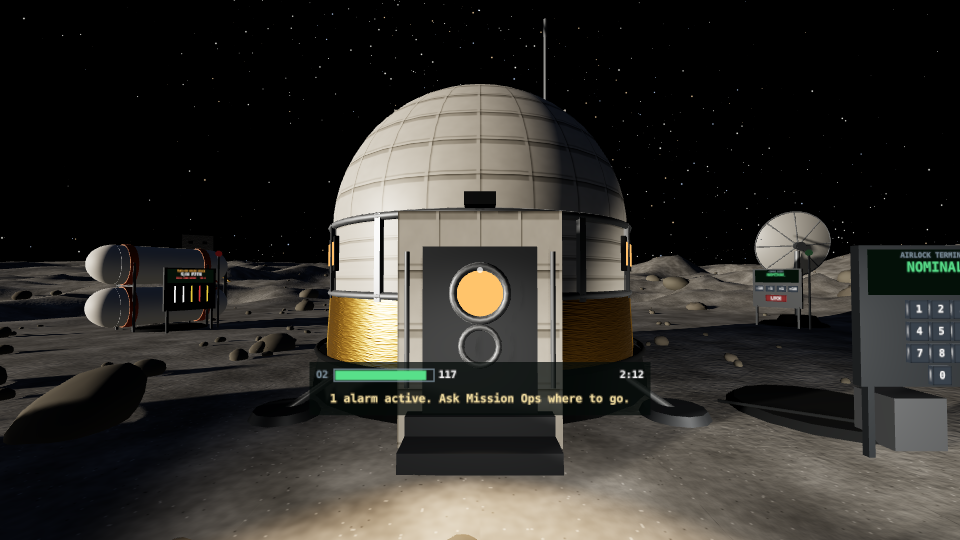
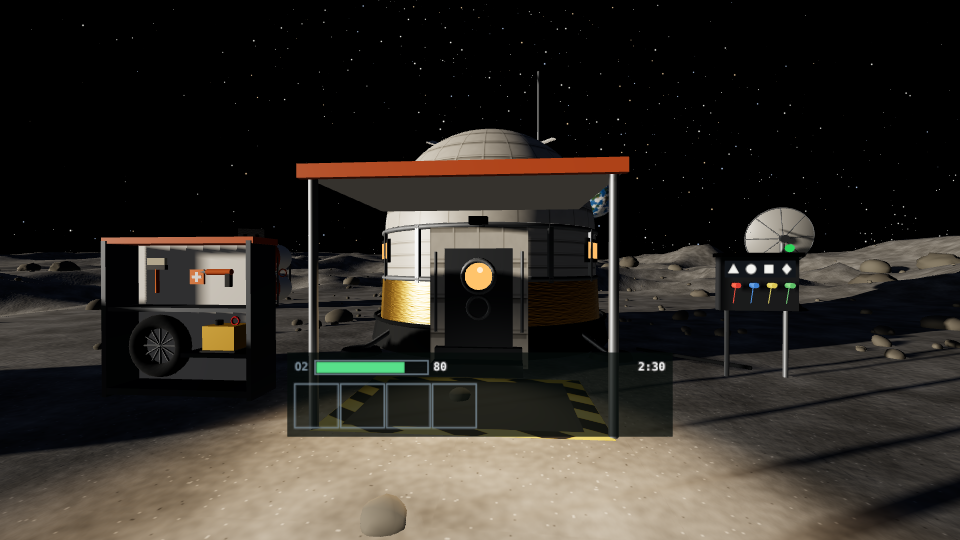
Polish from playing it in a browser, and refreshed docs
Hang the tools side-on in the locker and move it clear of the canopy
post, enlarge the HUD, tidy the power screen, take state and position
as messages arrive rather than once per frame, stop drawing invisible
hit boxes, let two leaks stack, and rewrite the smoke test to play the
whole demo mission through the mouse controls.

Claude-Session: https://claude.ai/code/session_014ejXsXkhudQzp9ZZL5innW

diff --git a/client/astronaut.js b/client/astronaut.js
@@ -57,12 +57,12 @@ addEventListener('resize', () => {
 
 // ---------- heads-up display (a strip locked to the bottom of your view) ----------
 const hudCanvas = document.createElement('canvas');
-hudCanvas.width = 1024; hudCanvas.height = 160;
+hudCanvas.width = 1024; hudCanvas.height = 224;
 const hud = hudCanvas.getContext('2d');
 const hudTex = new THREE.CanvasTexture(hudCanvas);
 hudTex.colorSpace = THREE.SRGBColorSpace;
-const hudMesh = new THREE.Mesh(new THREE.PlaneGeometry(1.15, 0.18), new THREE.MeshBasicMaterial({ map: hudTex, transparent: true, depthTest: false, toneMapped: false }));
-hudMesh.position.set(0, -0.4, -1.3);
+const hudMesh = new THREE.Mesh(new THREE.PlaneGeometry(1.3, 0.284), new THREE.MeshBasicMaterial({ map: hudTex, transparent: true, depthTest: false, toneMapped: false }));
+hudMesh.position.set(0, -0.42, -1.3);
 hudMesh.renderOrder = 10;
 camera.add(hudMesh);
 let hudKey = '';
@@ -76,8 +76,7 @@ function drawHud(now) {
   else if (s.phase === 'lobby') line = (iAmReady() ? 'You are GO. ' : (mode !== 'vr' ? 'Click' : usingHands() ? 'Point and pinch' : 'Point and pull the RIGHT TRIGGER') + ' on the READY board when you are set. ')
     + 'Radio check: ' + (mode !== 'vr' ? 'hold T' : usingHands() ? 'left hand to helmet' : 'hold LEFT TRIGGER') + ' and say hello.';
   else if (s.phase === 'results') line = (s.result.won ? 'MISSION COMPLETE' : 'MISSION FAILED') + `   Score ${s.score}.   ${s.result.reason}`;
-  else if (!line && now - runStart < 12) line = mode !== 'vr' ? 'T talk.  Click to take a tool or use it.  C crouch.  F patch suit.  G generator.'
-    : usingHands() ? 'Left hand to helmet = talk.  Pinch to grab.  Pinch the ground = teleport.' : 'LEFT TRIGGER talk.  GRIP to grab tools off the rack and your belt.';
+  else if (!line && now - runStart < 12) line = mode !== 'vr' ? 'T talk. Click to grab or use.' : usingHands() ? 'Pinch to grab. Hand to helmet to talk.' : 'GRIP to grab. LEFT TRIGGER to talk.';
   const dark = run && !s.powered;
   const radioTxt = dark ? 'NO SIGNAL' : talking ? 'TX' : rx ? 'RX' : '';
   const belt = run ? s.belt : [];
@@ -106,7 +105,7 @@ function drawHud(now) {
   }
   if (run) {
     // The belt: one box per weight unit, and what is hanging on it.
-    const used = beltWeight(belt), x0 = 20, y0 = 78, u = 56;
+    const used = beltWeight(belt), x0 = 20, y0 = 84, u = 116;
     for (let i = 0; i < CFG.beltCapacity; i++) {
       hud.strokeStyle = refused ? '#ff5c5c' : '#7d909c'; hud.lineWidth = 3; hud.strokeRect(x0 + i * (u + 6), y0, u, u);
       if (i < used) { hud.fillStyle = refused ? 'rgba(255,92,92,0.35)' : 'rgba(88,224,138,0.22)'; hud.fillRect(x0 + i * (u + 6) + 3, y0 + 3, u - 6, u - 6); }
@@ -119,10 +118,10 @@ function drawHud(now) {
     }
   }
   hud.fillStyle = '#ffe9a8'; hud.textAlign = 'center';
-  let size = 30; hud.font = `bold ${size}px monospace`;
-  const room = run ? W - 300 : W - 30, mid = run ? 280 + (W - 280) / 2 : W / 2;
-  while (hud.measureText(line).width > room && size > 14) hud.font = `bold ${--size}px monospace`;
-  hud.fillText(line, mid, 108);
+  let size = 34; hud.font = `bold ${size}px monospace`;
+  const room = run ? W - 540 : W - 30, mid = run ? 520 + (W - 520) / 2 : W / 2;
+  while (hud.measureText(line).width > room && size > 18) hud.font = `bold ${--size}px monospace`;
+  hud.fillText(line, mid, 150);
   hudTex.needsUpdate = true;
 }
 function say(text, seconds = 6) { prompt = text; promptUntil = performance.now() / 1000 + seconds; }
@@ -463,7 +462,7 @@ renderer.setAnimationLoop(() => {
   camera.getWorldPosition(headPos); camera.getWorldDirection(fwd);
   radio.listen(headPos, fwd);
   shake *= 0.86;
-  hudMesh.position.x = (Math.random() - 0.5) * shake; hudMesh.position.y = -0.4 + (Math.random() - 0.5) * shake;
+  hudMesh.position.x = (Math.random() - 0.5) * shake; hudMesh.position.y = -0.42 + (Math.random() - 0.5) * shake;
   if (mode === 'desk') camera.rotation.z = (Math.random() - 0.5) * shake * 0.6;
   drawBoard();
   drawHud(now);

diff --git a/client/console.js b/client/console.js
@@ -100,6 +100,7 @@ function render() {
   $('score').textContent = s.score;
   const bar = $('o2bar');
   bar.style.width = dark ? '0%' : `${Math.min(100, ((s.oxygen ?? CFG.o2Start) / (s.o2Max ?? CFG.o2Start)) * 100)}%`;
+  bar.style.visibility = dark ? 'hidden' : '';
   bar.className = s.oxygen < 25 ? 'low' : '';
   $('crew').innerHTML = ['astronaut', 'ops', 'tech', 'sci'].map(r =>
     `<i class="${s.crew.includes(r) || (r !== 'astronaut' && s.crew.includes('all')) ? 'on' : ''}">${ROLES[r]}</i>`).join('');
@@ -182,8 +183,8 @@ function dial(g, x, y, r, value, max, name, { redBelow = 0, redAbove = Infinity,
   g.strokeStyle = bad ? C.red : C.green; g.lineWidth = 5; g.lineCap = 'round';
   g.beginPath(); g.moveTo(x, y); g.lineTo(x + Math.cos(a) * r * 0.92, y + Math.sin(a) * r * 0.92); g.stroke();
   g.fillStyle = C.ink; g.beginPath(); g.arc(x, y, 7, 0, 7); g.fill();
-  label(g, name, x, y + 26, 16, C.dim);
-  label(g, `${Math.round(value)}${unit}`, x, y - r * 0.42, 24, bad ? C.red : C.ink);
+  label(g, `${Math.round(value)}${unit}`, x, y + 32, 30, bad ? C.red : C.ink);
+  label(g, name, x, y + 62, 16, C.dim);
 }
 
 // ---------- Mission Ops: the belt and the locker ----------
@@ -294,16 +295,16 @@ function drawPower(s) {
   label(g, `${Math.round(p.battery)}%`, bx + bw / 2, by + bh / 2, 46, p.battery > 55 && !low ? '#05130a' : C.ink);
   label(g, 'BATTERY', bx + bw / 2, by + bh + 22, 16);
   // Where the power is lost: coming in from the sun, or going out through the board.
-  dial(g, W * 0.27, 320, 105, p.solar, 100, 'SOLAR IN', { redBelow: 60, unit: '%' });
-  dial(g, W * 0.73, 320, 105, p.board, 100, 'BOARD OUT', { redBelow: 60, unit: '%' });
-  g.strokeStyle = C.line; g.lineWidth = 3; g.beginPath(); g.moveTo(W * 0.27 + 120, 300); g.lineTo(W * 0.73 - 120, 300); g.stroke();
-  g.fillStyle = C.line; g.beginPath(); g.moveTo(W * 0.73 - 120, 290); g.lineTo(W * 0.73 - 104, 300); g.lineTo(W * 0.73 - 120, 310); g.fill();
+  dial(g, W * 0.27, 296, 100, p.solar, 100, 'SOLAR IN', { redBelow: 60, unit: '%' });
+  dial(g, W * 0.73, 296, 100, p.board, 100, 'BOARD OUT', { redBelow: 60, unit: '%' });
+  g.strokeStyle = C.line; g.lineWidth = 3; g.beginPath(); g.moveTo(W * 0.27 + 112, 250); g.lineTo(W * 0.73 - 122, 250); g.stroke();
+  g.fillStyle = C.line; g.beginPath(); g.moveTo(W * 0.73 - 122, 240); g.lineTo(W * 0.73 - 108, 250); g.lineTo(W * 0.73 - 122, 260); g.fill();
   // The wiring diagram: each loose cable and the socket it belongs in.
   if (s.wiring) {
-    g.strokeStyle = C.line; g.lineWidth = 2; g.strokeRect(20, 380, W - 40, H - 400);
-    const n = s.wiring.length, row = (H - 420) / Math.max(1, n);
+    g.strokeStyle = C.line; g.lineWidth = 2; g.strokeRect(20, 392, W - 40, H - 408);
+    const n = s.wiring.length, row = (H - 424) / Math.max(1, n);
     s.wiring.forEach((w, i) => {
-      const y = 392 + row * i + row / 2, col = CABLE[w.color];
+      const y = 400 + row * i + row / 2, col = CABLE[w.color];
       g.fillStyle = col; g.fillRect(70, y - 13, 60, 26); g.fillRect(130, y - 7, 16, 14);    // the plug
       g.strokeStyle = col; g.lineWidth = 6; g.beginPath(); g.moveTo(152, y); g.lineTo(W - 190, y); g.stroke();
       g.fillStyle = col; g.beginPath(); g.moveTo(W - 190, y - 12); g.lineTo(W - 166, y); g.lineTo(W - 190, y + 12); g.fill();

diff --git a/client/stations.js b/client/stations.js
@@ -14,7 +14,9 @@ const GRAB = 0.24;          // metres: how close a hand must be to grab somethin
 const BELT_R = 0.3;         // metres from the body to a belt slot
 const BELT_SLOT = { gen: -1.3, brush: -0.65, patch: 0, welder: 0.65, tire: 1.3 }; // radians round the waist, left to right
 const BELT_SCALE = { brush: 0.8, patch: 1, welder: 0.8, tire: 0.36, gen: 0.42 };
-const RACK_TURN = { tire: Math.PI / 2 }; // the tire hangs flat against the back of the rack
+// How each tool hangs on the rack, so you see its side and not its end: [x, y] rotation in radians.
+const RACK_TURN = { brush: [Math.PI / 2, 0], welder: [0, Math.PI / 2], tire: [0, Math.PI / 2] };
+const RACK_SCALE = { brush: 1.3, patch: 1.3, welder: 1.3 };
 const WELD_DWELL = 0.4;     // seconds the tip must stay on one point of the crack
 const WELD_RANGE = 0.12;
 
@@ -98,11 +100,12 @@ export function buildFixtures(THREE, world, { rig, camera, send, sfx = () => {} 
       () => { if (st.locker.includes(id)) take(id); else pullCord(); });
     // And an outline in its place on the rack while it is on the belt: point at it to put the tool back.
     const slot = new THREE.LineSegments(new THREE.EdgesGeometry(new THREE.BoxGeometry(w, h, d)), ghostEdge);
-    slot.position.copy(F.lockerSlots[id]); slot.position.z += z;
-    slot.rotation.y = RACK_TURN[id] || 0;
+    slot.position.copy(F.lockerSlots[id]);
+    slot.geometry.translate(0, 0, z); // the box is centred on the tool, not on its grip
+    slot.rotation.set(...(RACK_TURN[id] || [0, 0]), 0); slot.scale.setScalar(RACK_SCALE[id] || 1);
     F.locker.add(slot);
-    const back = add(F.locker, new THREE.BoxGeometry(w, h, d), ghost, slot.position.x, slot.position.y, slot.position.z);
-    back.rotation.y = slot.rotation.y;
+    const back = add(F.locker, new THREE.BoxGeometry(w, h, d).translate(0, 0, z), ghost, slot.position.x, slot.position.y, slot.position.z);
+    back.rotation.copy(slot.rotation); back.scale.copy(slot.scale);
     target(back, () => st.belt.includes(id), () => stow(id));
     g.userData.slot = slot;
   }
@@ -264,7 +267,7 @@ export function buildFixtures(THREE, world, { rig, camera, send, sfx = () => {} 
         if (!g.visible) { if (g.parent) g.parent.remove(g); continue; }
         const parent = onRack ? F.locker : hand >= 0 ? hands[hand].obj : beltGroup;
         if (g.parent !== parent) parent.add(g);
-        if (onRack) { g.position.copy(F.lockerSlots[id]); g.rotation.set(0, RACK_TURN[id] || 0, 0); g.scale.setScalar(1); }
+        if (onRack) { g.position.copy(F.lockerSlots[id]); g.rotation.set(...(RACK_TURN[id] || [0, 0]), 0); g.scale.setScalar(RACK_SCALE[id] || 1); }
         else if (hand >= 0) { g.position.set(0, 0, 0); g.rotation.set(0, 0, 0); g.scale.setScalar(id === 'tire' ? 0.8 : 1); }
         else {
           const t = BELT_SLOT[id];

diff --git a/client/world.js b/client/world.js
@@ -551,9 +551,9 @@ export function buildWorld(THREE, scene, { shadows = true, renderer = null } = {
   // ---------- tool locker: an open rack beside the airlock. The tools themselves are added by stations.js ----------
   const locker = fixture(PLACES.locker);
   const lockerSlots = {
-    brush:  new THREE.Vector3(-0.55, 1.5, 0.14),
-    patch:  new THREE.Vector3(0, 1.5, 0.14),
-    welder: new THREE.Vector3(0.55, 1.5, 0.14),
+    brush:  new THREE.Vector3(-0.55, 1.36, 0.14),
+    patch:  new THREE.Vector3(0, 1.52, 0.2),
+    welder: new THREE.Vector3(0.45, 1.56, 0.14),
     tire:   new THREE.Vector3(-0.45, 0.62, 0.2),
     gen:    new THREE.Vector3(0.48, 0.76, 0.22),
   };
@@ -788,8 +788,8 @@ export function buildWorld(THREE, scene, { shadows = true, renderer = null } = {
         if (m.burst.visible) {
           const v = (u - 0.55) / 0.45;
           m.burst.position.set(tx, ty, tz);
-          m.burst.scale.setScalar((close ? 0.6 : 2) + v * (close ? 3 : 9));
-          m.burst.material.opacity = (1 - v) * 0.55;
+          m.burst.scale.setScalar((close ? 0.4 : 2) + v * (close ? 1.6 : 9));
+          m.burst.material.opacity = (1 - v) * 0.7;
         }
       });
     },

diff --git a/client/shared/config.js b/client/shared/config.js
@@ -31,7 +31,7 @@ export const CFG = {
   roverSpeed: 2.7,            // m/s, about 6 mph (crewed lunar terrain vehicle class)
   bounds: 22,                 // metres from the habitat that players and rover may go
   habRadius: 2.9,
-  spawn: { x: -2.2, z: 7.0 }, // facing the tool locker
+  spawn: { x: -3.6, z: 7.0 }, // facing the tool locker
 
   // Free play: after the scripted opening, random faults and showers.
   freeFaultEvery: [25, 35],   // seconds between random faults
@@ -77,7 +77,7 @@ export const CRACK_POINTS = 6;
 // stands on its local +z side.
 const CRACK_ANGLES = [45, 135, 195, 255, 285, 345]; // degrees round the dome, between the ribs
 export const PLACES = {
-  locker: { x: -2.2, z: 4.6, ry: 0 },
+  locker: { x: -3.6, z: 4.6, ry: 0 },
   board:  { x: 4.2, z: 3.4, ry: 0 },
   panels: [{ x: 9, z: 8 }, { x: 9, z: 11 }, { x: 9, z: 14 }],
   canopy: { x0: -1.5, x1: 1.5, z0: 2.6, z1: 5.8 },

diff --git a/test/game.test.js b/test/game.test.js
@@ -273,6 +273,16 @@ const kit = (g, ...tools) => { at(g, PLACES.locker); for (const t of [...g.belt]
   console.log(`idle crew, demo mission: lost after ${Math.round(g.elapsed)} s, blackouts ${g.result.blackouts}, meteor hits ${g.result.hits}`);
 }
 
+// ---------- hiding is not a plan: take cover but fix nothing, and the leaks finish you ----------
+{
+  const g = new Game(rng);
+  g.start();
+  at(g, { x: 0, z: 4 }); // under the canopy for the whole shift
+  run(g, CFG.roundSeconds + 5);
+  assert.equal(g.result.won, false, 'an unrepaired hull breach must not be survivable');
+  assert.equal(g.result.hits, 0);
+}
+
 // ---------- free play keeps throwing things, never two of a kind ----------
 {
   const g = new Game(rng);

diff --git a/README.md b/README.md
@@ -137,13 +137,20 @@ client/voice.js     push-to-talk radio with 1960s distortion and Quindar beeps, 
 
 ## What has and has not been tested
 
-![The habitat](docs/astronaut-habitat.png)
+![The base: tool locker, airlock canopy, switchboard](docs/astronaut-habitat.png)
 
-Everything is procedural, nothing is downloaded: cratered regolith with a generated grain texture and vertex-colour variation, boulder fields from noise-displaced rocks (none inside the play area, so you never walk through one), a Milky Way of 5,000 stars with their own sizes and colours, the sun as a disc and glow along the light direction, and an Earth with continents, drifting clouds, a sunlit atmosphere rim and a phase from the same sun that lights the ground. Filmic tone mapping and an environment map make the gold foil, visors and steel reflect something. The habitat has a ribbed dome, insulated skirt, hatch with porthole, floodlight, radiators and a dish aimed at Earth; the stations, rover and a lander with its flag on the horizon follow suit. The scene is about 250k triangles and 270 draw calls, which is within a Quest 2's budget. The look was tuned from desktop screenshots in `docs/`.
+| | |
+| --- | --- |
+| ![The tool locker](docs/astronaut-locker.png) | ![Dusty solar panels, one half brushed](docs/astronaut-solar.png) |
+| ![The tripped switchboard](docs/astronaut-switchboard.png) | ![A hull breach, two points welded, and the outline of the tool you are missing](docs/astronaut-hull.png) |
 
-Tested in headless Chromium against the real three.js r180 build: lobby and loadout, a full round with every alarm type solved through the astronaut's panels, the delayed voice link in both directions, rover driving, results, "Fly again", seat locking, and the 3D scene itself: it loads with no errors, everything renders, and using a wire on the fuel depot panel reaches the server through the raycaster, on both the laptop server and the Cloudflare worker. `npm run smoke` repeats the scene check (it needs `npm i -D playwright && npx playwright install chromium` once) and leaves screenshots in `test/shots/`.
+![Mission control: belt and locker, radar with a meteor warning, power gauges and the wiring diagram](docs/mission-control.png)
 
-**Not yet seen on a headset:** the VR controls, hand tracking, HUD placement, and how the scene performs on the Quest's GPU. Start there, with the Quest plugged in over USB or on the deployed URL. If it stutters, the first things to turn down are in `client/world.js`: the terrain segment count (`SEG`), the boulder counts in the three `scatter` calls, and the shadow map size.
+Everything is procedural, nothing is downloaded: cratered regolith with a generated grain texture and vertex-colour variation, boulder fields from noise-displaced rocks (none inside the play area, so you never walk through one), a Milky Way of 5,000 stars with their own sizes and colours, the sun as a disc and glow along the light direction, and an Earth with continents, drifting clouds, a sunlit atmosphere rim and a phase from the same sun that lights the ground. Filmic tone mapping and an environment map make the gold foil, visors and steel reflect something. The habitat has a ribbed dome, insulated skirt, hatch with porthole, floodlight, radiators and a dish aimed at Earth; the solar array, switchboard, tool locker, rover and a lander with its flag on the horizon follow suit. The scene is about 260k triangles, which is within a Quest 2's budget. It has five lights and nothing in the repairs adds one, because every light costs the headset on every pixel. The look was tuned from desktop screenshots in `docs/`.
+
+Tested two ways. `npm test` checks the rules in plain Node: the belt's weight limit, every repair refused without its tool or from too far away, the battery draining to a blackout and recovering, voice dropped in both directions during a blackout, the radar and the meteor warning lost with the rover wheel, cover, the meteor hit and the leak it starts, the generator, exactly what each seat is sent, the lobby, and the demo mission played well (a win) and not at all (a loss). `npm run smoke` opens Mission Control and the astronaut in headless Chromium against the real three.js r180 build, readies up, and plays the whole demo mission to a clean win the way a laptop player would: stand somewhere, look at the thing, click. Every repair goes through the same raycast as a mouse click, and the socket for each cable is read off the Scientist's wiring diagram on the other page. It needs `npm i -D playwright && npx playwright install chromium` once and leaves screenshots in `test/shots/`. It passes against the laptop server and against the Cloudflare worker (`npm run dev:cf`, then `SMOKE_URL=http://localhost:8787 npm run smoke`).
+
+**Not yet seen on a headset:** everything you do with your hands. Grabbing tools off the rack and the belt, sweeping the brush, holding the welder on the crack, pushing plugs into sockets, pulling the wheel, the generator cord, patching your forearm, the hiss in your ears, crouching for cover, where the belt and the HUD sit, and how the scene performs on the Quest's GPU. None of that can be run without a headset, so it has only been read, not played. The distances and sizes to tune first are at the top of `client/stations.js` (`GRAB`, `BELT_R`, `BELT_SLOT`, `WELD_RANGE`, `WELD_DWELL`). If a gesture misbehaves on the day, pointing the right trigger at the thing from within 1.6 m does the same job. Start there, with the Quest plugged in over USB or on the deployed URL. If it stutters, the first things to turn down are in `client/world.js`: the terrain segment count (`SEG`), the boulder counts in the three `scatter` calls, and the shadow map size.
 
 ## Science notes for the pitch
 
